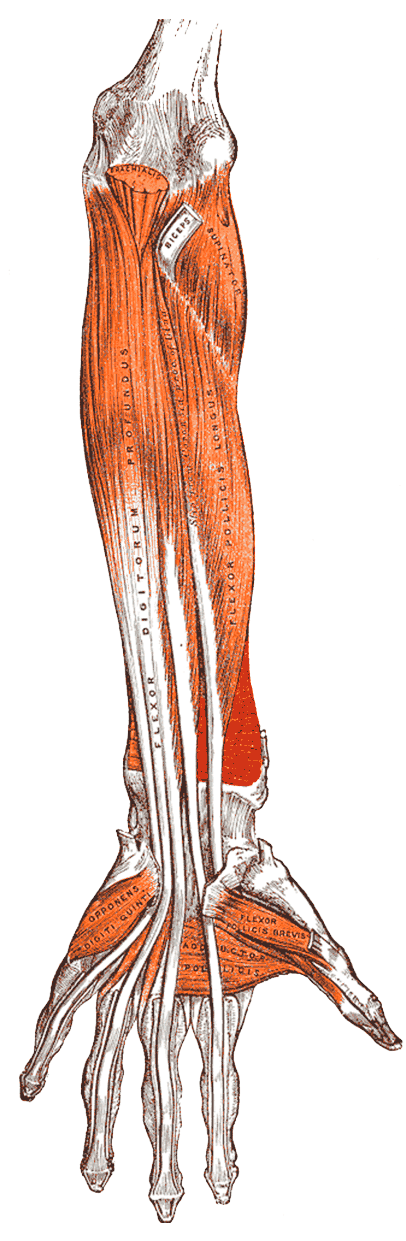
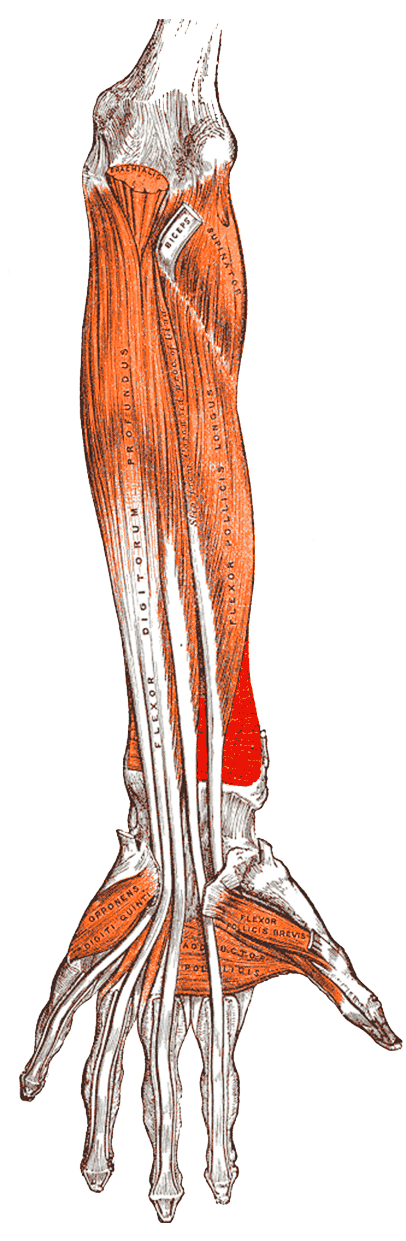
Rend leur marquage au carre pronateur et au coraco-brachial
MB avait telecharge les bonnes planches : celles servies pour ces deux
muscles ne designaient RIEN — la gravure entiere etait d'une teinte, et le
muscle n'y etait pas distingue. Elles sont remplacees par les siennes.

    carre_pronateur    3 670 px marques — la bande distale entre radius et ulna
    coraco_brachial    1 449 px marques — le creux de l'aisselle

Aucune des deux n'a besoin d'etre recadree : le controle a refait la mesure
et les donne visibles a 100 % dans la carte de 290 px. Le coraco-brachial
deborde du cadre (413 px affiches), mais son muscle tient entre x=142 et
x=265, donc dans la partie visible — mesure, pas suppose.

CE QUE CE LOT A APPRIS : UNE PALETTE PEUT DETRUIRE UN MARQUAGE

Le remplacement a echoue du premier coup. La planche du carre pronateur que
j'avais archivee ne portait PLUS de marquage detectable : ma propre
conversion a 32 couleurs l'avait fondue. Son marquage ne couvre que 0,9 % de
la planche — assez peu pour qu'une quantification le fasse disparaitre
entierement.

Mesure sur les 37 sources : UNE SEULE est dans ce cas. Les autres perdent
entre 0 et 55 % de leurs pixels marques et restent detectables. Mais une
seule suffisait, et elle serait entree au depot vide sans que rien ne le
dise — c'est exactement la panne silencieuse que ce projet refuse.

La planche est reconvertie a 40 COULEURS : la plus petite palette mesuree qui
preserve son marquage, 99 % garde pour 6 ko de plus.

UN HUITIEME CONTROLE, VU TOMBER
[…]

Changed region(s): [[0.4729, 0.5205, 0.6502, 0.643], [0.266, 0.3981, 0.2956, 0.4593], [0.3251, 0.3674, 0.3547, 0.3981]]

diff --git a/index.html b/index.html
@@ -13,7 +13,7 @@
 <link rel="manifest" href="manifest.webmanifest">
 <link rel="icon" href="icones/icone.svg" type="image/svg+xml">
 <link rel="apple-touch-icon" href="icones/icone-192.png">
-<link rel="stylesheet" href="css/app.css?v=1.22.2">
+<link rel="stylesheet" href="css/app.css?v=1.22.3">
 </head>
 <body>
 
@@ -24,19 +24,19 @@
   </div>
 </noscript>
 
-<script src="js/store.js?v=1.22.2"></script>
-<script src="js/model.js?v=1.22.2"></script>
-<script src="js/ui.js?v=1.22.2"></script>
-<script src="js/panneau.js?v=1.22.2"></script>
-<script src="js/vue-seance.js?v=1.22.2"></script>
-<script src="js/vue-recup.js?v=1.22.2"></script>
-<script src="js/vue-programmes.js?v=1.22.2"></script>
-<script src="js/vue-sparring.js?v=1.22.2"></script>
-<script src="js/vue-journal.js?v=1.22.2"></script>
-<script src="js/vue-exercice.js?v=1.22.2"></script>
-<script src="js/vue-suivi.js?v=1.22.2"></script>
-<script src="js/vue-reglages.js?v=1.22.2"></script>
-<script src="js/app.js?v=1.22.2"></script>
+<script src="js/store.js?v=1.22.3"></script>
+<script src="js/model.js?v=1.22.3"></script>
+<script src="js/ui.js?v=1.22.3"></script>
+<script src="js/panneau.js?v=1.22.3"></script>
+<script src="js/vue-seance.js?v=1.22.3"></script>
+<script src="js/vue-recup.js?v=1.22.3"></script>
+<script src="js/vue-programmes.js?v=1.22.3"></script>
+<script src="js/vue-sparring.js?v=1.22.3"></script>
+<script src="js/vue-journal.js?v=1.22.3"></script>
+<script src="js/vue-exercice.js?v=1.22.3"></script>
+<script src="js/vue-suivi.js?v=1.22.3"></script>
+<script src="js/vue-reglages.js?v=1.22.3"></script>
+<script src="js/app.js?v=1.22.3"></script>
 
 </body>
 </html>

diff --git a/banc/index.html b/banc/index.html
@@ -5,7 +5,7 @@
 <meta name="viewport" content="width=device-width, initial-scale=1, viewport-fit=cover">
 <title>Banc de recette — Carnet AW</title>
 <link rel="icon" href="../icones/icone.svg" type="image/svg+xml">
-<link rel="stylesheet" href="../css/app.css?v=1.22.2">
+<link rel="stylesheet" href="../css/app.css?v=1.22.3">
 <style>
   body { padding: 18px 12px 40px; }
   .bilan { position: sticky; top: 0; z-index: 5; padding: 12px 0 10px; background: var(--fond); border-bottom: 1px solid var(--trait); margin-bottom: 14px; }
@@ -57,7 +57,7 @@
    demode, mais c'est le seul moyen simple de garder l'ORDRE d'execution :
    store.js, puis model.js qui s'y appuie, puis les cas. */
 (function () {
-  var q = '?v=1.22.2';            // gouverne par outils/version.py
+  var q = '?v=1.22.3';            // gouverne par outils/version.py
   var t = '&t=' + Date.now();    // et jamais de cache, ici
   ['../js/store.js', '../js/model.js', 'banc.js'].forEach(function (f) {
     document.write('<scr' + 'ipt src="' + f + q + t + '"></scr' + 'ipt>');

diff --git a/sw.js b/sw.js
@@ -3,7 +3,7 @@
    est servie depuis le cache dès que le réseau manque. Aucune donnée
    d'entraînement ne passe par ici : elle ne quitte jamais le téléphone. */
 
-var CACHE = 'carnet-aw-v1.22.2';
+var CACHE = 'carnet-aw-v1.22.3';
 
 var FICHIERS = [
   './',

diff --git a/js/app.js b/js/app.js
@@ -3,7 +3,7 @@
   'use strict';
   var h = A.ui.h;
 
-  window.APP_VERSION = '1.22.2';
+  window.APP_VERSION = '1.22.3';
 
   var ONGLETS = [
     { id: 'seance',     nom: 'Séance',    icone: 'M7 7v10M17 7v10M7 12h10M3 9.5v5M21 9.5v5' },

diff --git a/outils/recadrer-planches.py b/outils/recadrer-planches.py
@@ -72,10 +72,23 @@ LES MIETTES
     éclate en 310 points. On referme donc les hachures (rayon 4, mesuré) avant
     de garder les zones qui pèsent au moins 10 % de la plus grosse.
 
-TROIS PLANCHES NE PORTENT AUCUN MARQUAGE
-    grand_pectoral, coraco_brachial, carre_pronateur : la gravure entière est
-    orange, rien n'y est désigné. Elles ne peuvent pas être recadrées sur un
-    muscle, et ne sont pas dans la liste.
+UNE SEULE PLANCHE NE PORTE AUCUN MARQUAGE
+    grand_pectoral : sa gravure entière est d'une autre teinte, rien n'y est
+    désigné. Elle ne peut pas être recadrée sur un muscle, et n'est pas dans
+    la liste. Le carré pronateur et le coraco-brachial l'ont rejointe un
+    moment, faute d'avoir leur bonne planche — elles sont arrivées depuis.
+
+L'ARCHIVE AUSSI SE MESURE
+    `icones/planches-gray/` porte les sources d'origine, réduites à une
+    palette pour tenir dans le dépôt. Cette réduction peut DÉTRUIRE un
+    marquage : celui du carré pronateur ne couvre que 0,9 % de sa planche, et
+    32 couleurs le faisaient disparaître entièrement — converti sans que
+    personne le mesure, il serait entré au dépôt vide. Il est à 40 couleurs,
+    la plus petite palette qui le préserve (99 % du marquage, 6 ko de plus).
+
+    Un contrôle relit donc toute l'archive et exige que chaque planche porte
+    encore son marquage. C'est exactement le genre de perte qu'une conversion
+    silencieuse produit, et qu'on ne voit qu'au téléphone.
 """
 
 import os
@@ -103,7 +116,8 @@ PART_ZONE = 0.10         # une zone compte si elle pèse ça de la plus grosse
 VISIBLE_MINI = 0.97      # en dessous, la carte coupe le muscle : à recadrer
 LARGEUR_BRACHIAL = 0.55  # part de planche que sa boîte ne doit pas dépasser
 
-SANS_MARQUAGE = ('carre_pronateur', 'coraco_brachial', 'grand_pectoral')
+SANS_MARQUAGE = ('grand_pectoral',)
+ARCHIVE = os.path.join(RACINE, 'icones', 'planches-gray')
 
 
 def entrees_de_marquage(im, seuil=0.20):
@@ -358,7 +372,8 @@ def controles(casser=None):
                 pris.append('%s:(%d,%d,%d)' % (c, r, g, b))
     verifier('orange jamais pris pour du marquage', not pris,
              'retenu à tort : ' + ', '.join(pris[:4]) if pris else
-             'aucune entrée de palette au-dessus de g/r=0.30 sur les 22')
+             'aucune entrée de palette au-dessus de g/r=0.30 sur les %d'
+             % len(sources))
 
     # 6. Le brachial, défaut mesuré : sa boîte faisait 278 px de large sur une
     #    planche de 420 (66 %) à cause des miettes du thorax. Tombe si on garde
@@ -378,9 +393,28 @@ def controles(casser=None):
     #    lui, un détecteur qui ne trouve plus rien rendrait tout « visible à
     #    100 % », donc tout hors liste, et le contrôle 2 serait vert.
     muettes = sorted(c for c, v in visibles.items() if v is None)
-    verifier('19 planches marquées, 3 muettes',
-             len(muettes) == 3 and tuple(muettes) == tuple(sorted(SANS_MARQUAGE)),
+    verifier('%d planches marquées, %d muette(s)'
+             % (len(sources) - len(SANS_MARQUAGE), len(SANS_MARQUAGE)),
+             tuple(muettes) == tuple(sorted(SANS_MARQUAGE)),
              'muettes : ' + (', '.join(muettes) or 'aucune'))
+
+    # 8. L'ARCHIVE porte encore son marquage. Une conversion de palette peut
+    #    le DETRUIRE sans rien casser d'autre : c'est arrive au carre
+    #    pronateur, dont la zone ne couvre que 0,9 % de la planche. Tombe des
+    #    qu'une planche archivee ressort vide.
+    vides = []
+    if os.path.isdir(ARCHIVE):
+        for n in sorted(os.listdir(ARCHIVE)):
+            if not n.endswith('.png'):
+                continue
+            c = n[:-4]
+            if c in ('pectoralis_major', ):     # celle-la n'en a jamais porte
+                continue
+            if not marquage(Image.open(os.path.join(ARCHIVE, n))).any():
+                vides.append(c)
+    verifier('les planches archivées ont gardé leur marquage', not vides,
+             'vidées par la conversion : ' + ', '.join(vides) if vides else
+             'chaque source garde un marquage détectable')
 
     print()
     if echecs:

diff --git a/MODELE.md b/MODELE.md
@@ -480,10 +480,22 @@ tout seul, à l'arrivée des planches de la main.
 **Poids.** `icones/planches/` porte les trente-cinq planches entières, et
 `icones/planches-gray/` les trente-sept sources d'origine sous leur nom latin. Sans elles,
 un recadrage n'est ni rejouable ni rattrapable — c'est ce qui manquait à la 1.21.0.
-Recomposées sur blanc et réduites à 32 couleurs sans tramage, elles sont
+Recomposées sur blanc et réduites à une palette sans tramage, elles sont
 **indistinguables à l'œil** : ce sont des gravures à quatre teintes, pas des photos. Rien
 de tout ça n'est pré-chargé ni servi : le service worker ne met en cache que les
 illustrations réellement consultées.
+
+> **Une réduction de palette peut DÉTRUIRE un marquage, en silence.** Celui du carré
+> pronateur ne couvre que **0,9 %** de sa planche : à 32 couleurs il disparaissait
+> entièrement, et la planche serait entrée au dépôt vide sans que rien ne le signale.
+> Elle est à **40 couleurs**, la plus petite palette mesurée qui le préserve — 99 % du
+> marquage pour 6 ko de plus. Un contrôle relit désormais toute l'archive et exige que
+> chaque source porte encore son marquage.
+
+**Une seule planche n'en porte aucun** : le grand pectoral, dont la gravure vient d'une
+autre série. Le carré pronateur et le coraco-brachial l'ont accompagnée un moment, faute
+d'avoir leur bonne planche ; elles sont arrivées depuis, et leur muscle est désormais
+désigné — la bande distale entre radius et ulna, et le creux de l'aisselle.
 
 ### Les planches de Gray
 

diff --git a/README.md b/README.md
@@ -195,7 +195,7 @@ dans la barre · **une journée de récupération
 vide reste-t-elle hors du journal · **le nom de l'exercice tient-il dans le chrono** ·
 **le filtre de l'équipement masque-t-il vraiment ce qu'il prétend**.
 
-**Un contrôle qu'on n'a pas vu tomber ne prouve rien.** Quatre-vingt-quinze défauts ont été
+**Un contrôle qu'on n'a pas vu tomber ne prouve rien.** Quatre-vingt-seize défauts ont été
 réintroduits volontairement, un par un, et le banc les a tous fait rougir :
 
 | défaut réintroduit | ce que le banc a dit |
@@ -291,6 +291,7 @@ réintroduits volontairement, un par un, et le banc les a tous fait rougir :
 | l'équipement redescendu en bas des Réglages | `l'ordre des Réglages : le catalogue puis l'équipement, tout en haut` |
 | les blocs des Réglages ouverts par défaut | `tous sont REPLIÉS au départ — attendu 0, obtenu 3` — 5 contrôles rouges |
 | le compte retiré de l'en-tête repliée | `le compte se lit sans ouvrir — attendu "3,1,1", obtenu ",,"` |
+| une planche archivée reconvertie à 32 couleurs | `les planches archivées ont gardé leur marquage — vidées par la conversion : pronator_quadratus` |
 
 Ce tableau est un **journal**, pas un inventaire : quelques lignes citent des contrôles
 qui ont disparu avec ce qu'ils mesuraient — les planches générales de l'atlas, par
